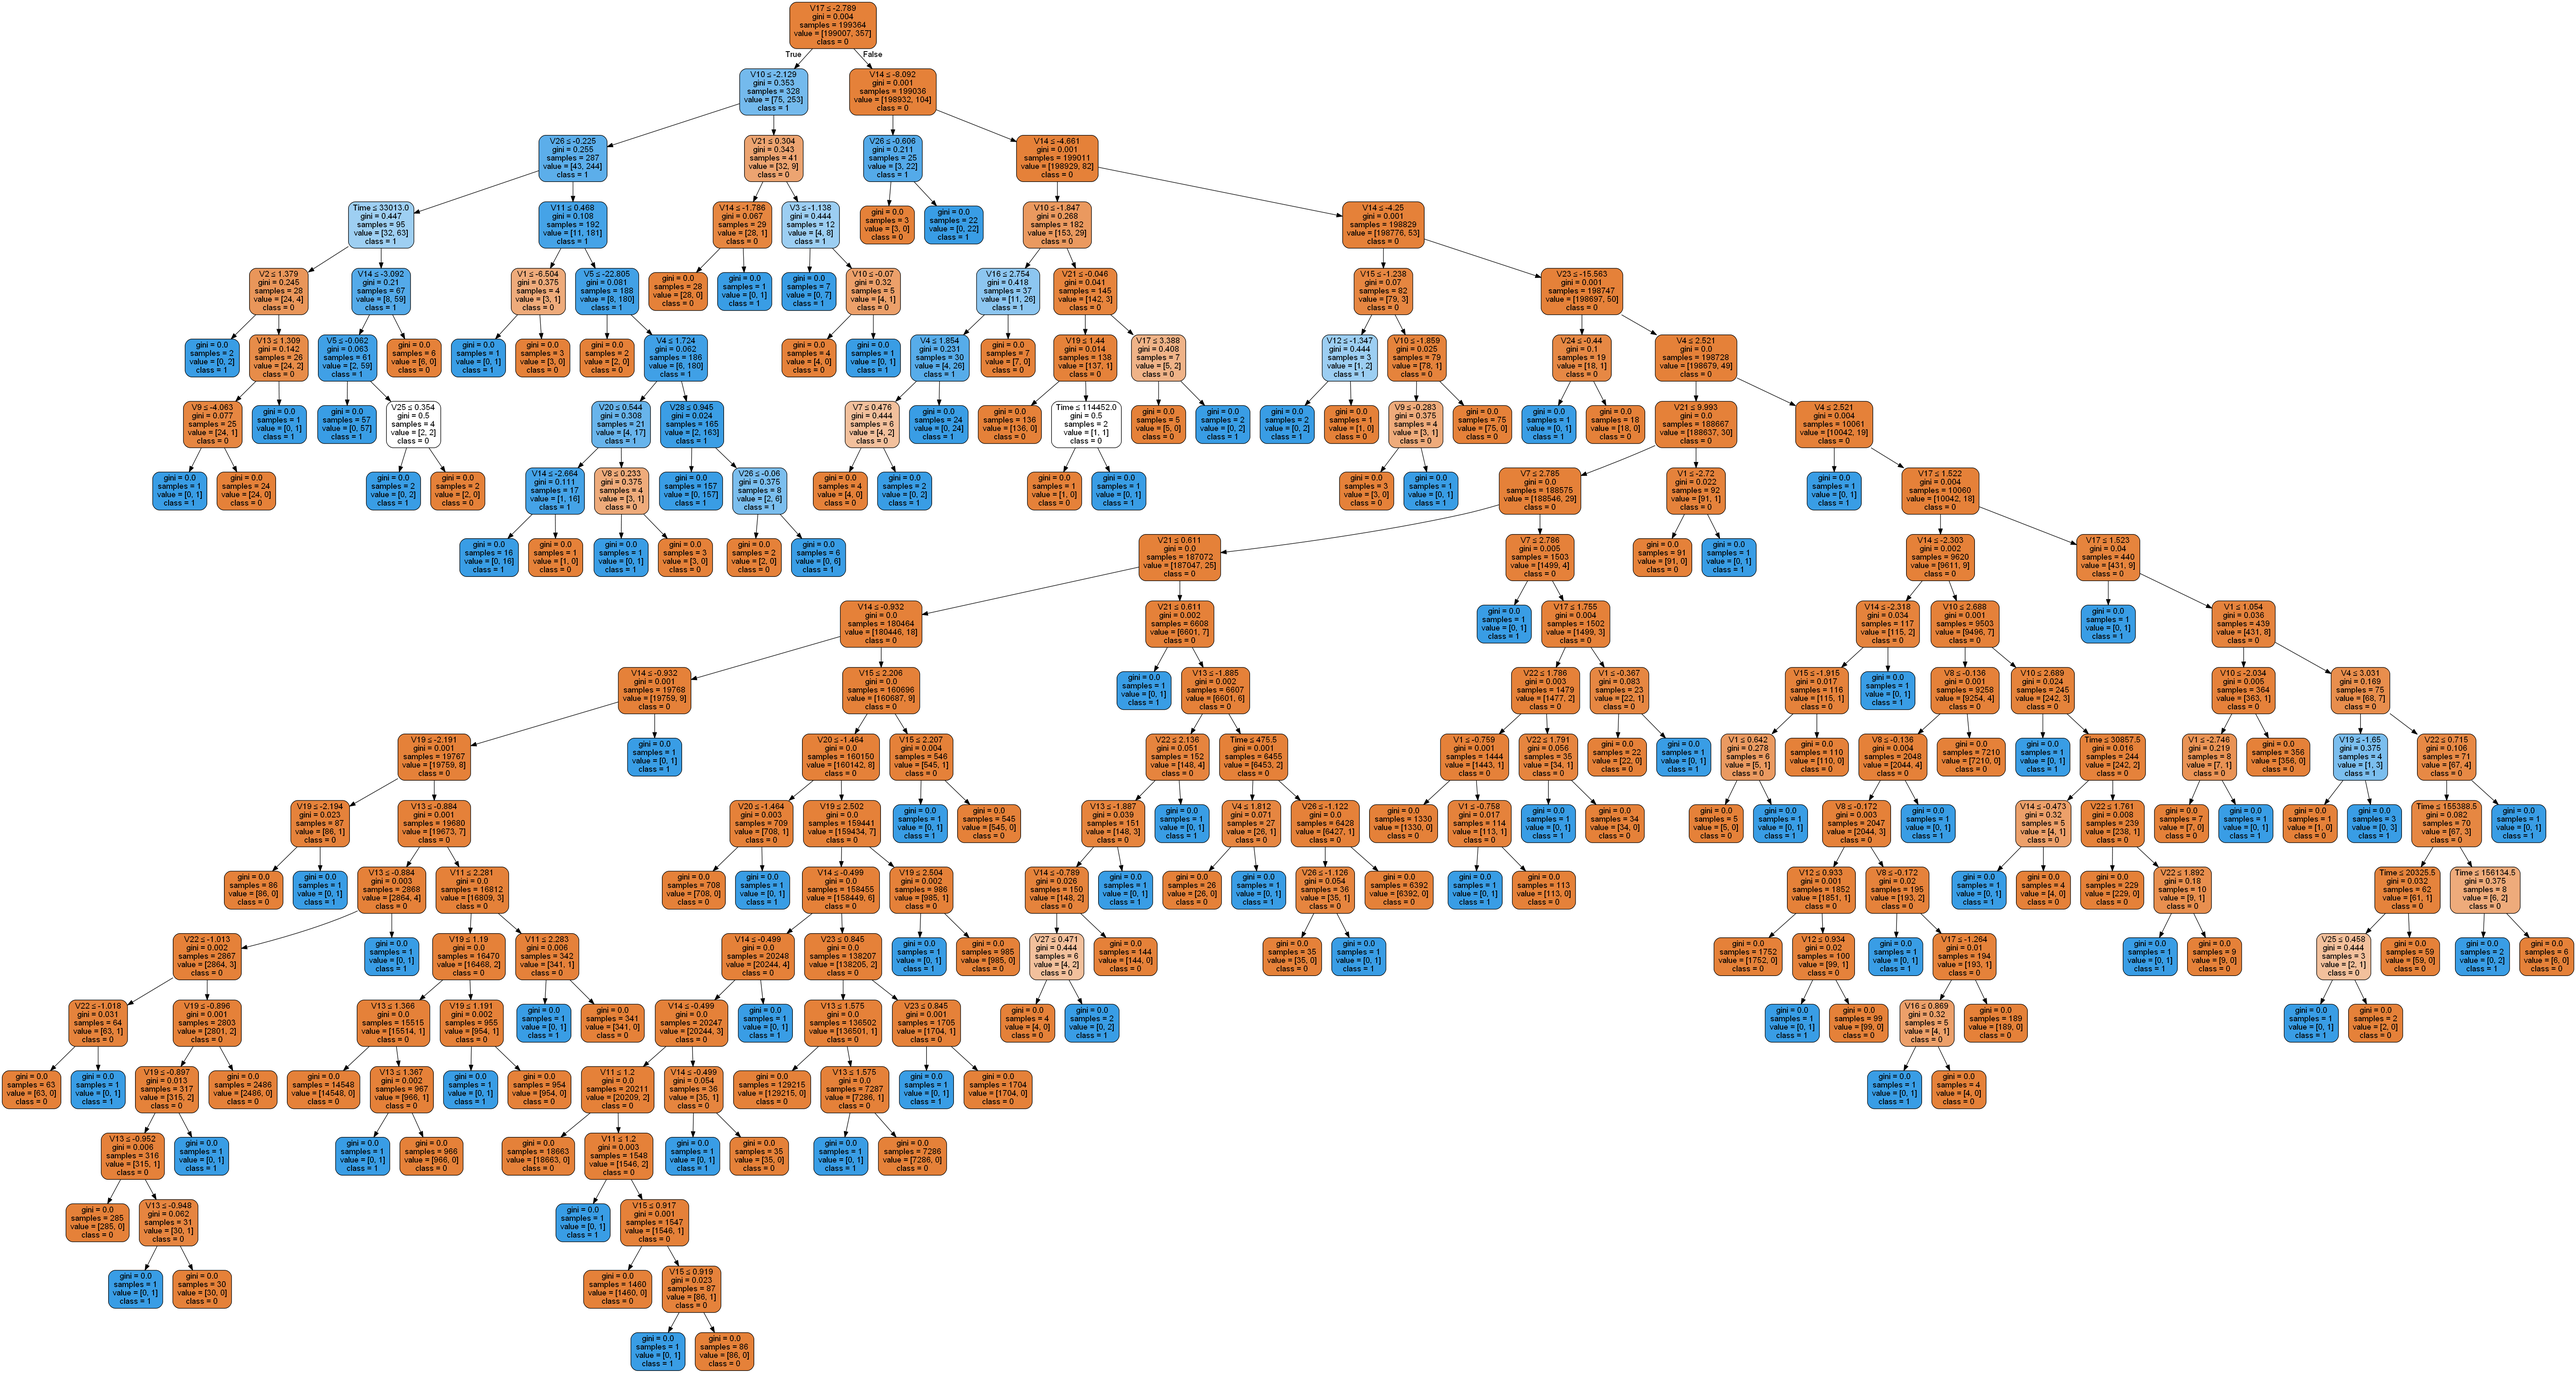
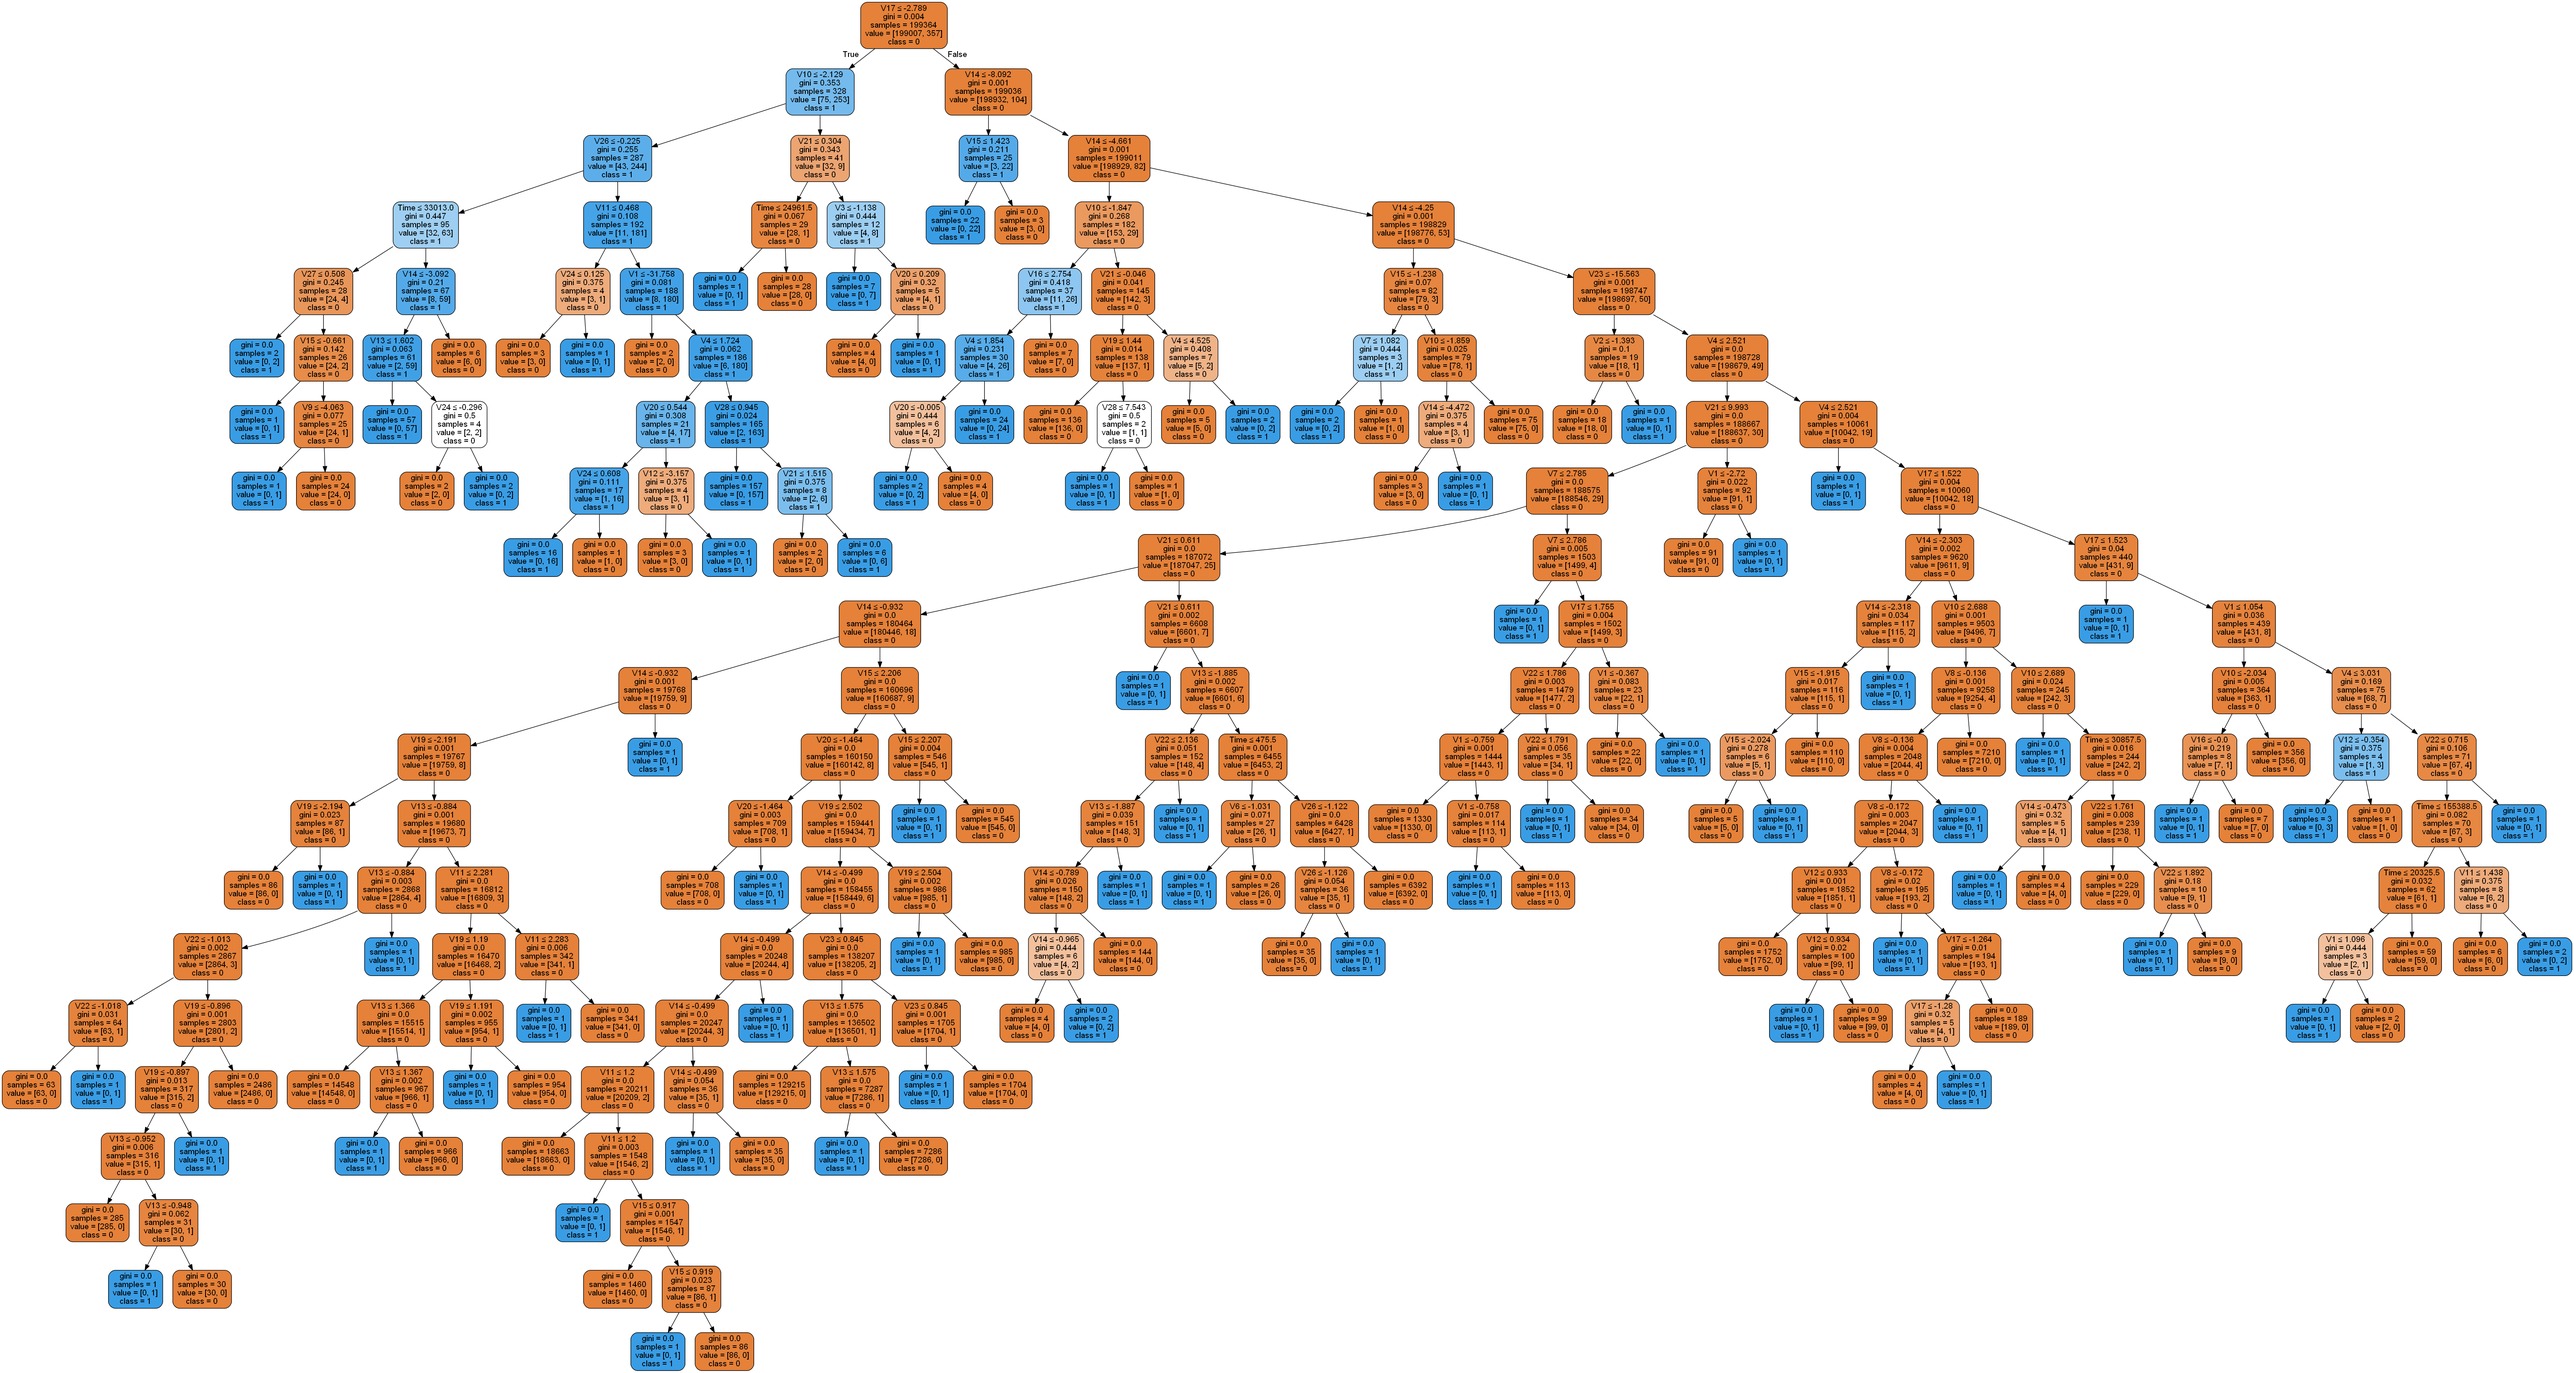
Add files via upload

diff --git a/splitdata.py b/splitdata.py
@@ -36,9 +36,7 @@ from sklearn import metrics
 # Model Accuracy, how often is the classifier correct?
 print("Accuracy:",metrics.accuracy_score(y_test, y_pred))
 valor1 = metrics.accuracy_score(y_test, y_pred)
-#print(clf.predict([[1,0.3,0.2, 0.1, -0.02, -0.3, 0.4, 1.45, 0.8,0.9, 0.78,
- #               2, 3,4, 1, 1,-1,-0.5,-0.4,-0.6, 0.88,
-  #              0.4, 0.6, 0.5, 0.2, 0.3,1, -1, 0.8]]))
+
 
 from sklearn.ensemble import RandomForestClassifier
 
@@ -54,6 +52,7 @@ RandomForestClassifier(bootstrap=True, class_weight=None, criterion='gini',
             min_weight_fraction_leaf=0.0, n_estimators=100, n_jobs=1,
             oob_score=False, random_state=None, verbose=0,
             warm_start=False)
+
 import pandas as pd
 feature_imp = pd.Series(clf.feature_importances_,index= feature_cols).sort_values(ascending=False)
 print(feature_imp)
@@ -68,36 +67,5 @@ plt.xlabel('Feature Importance Score')
 plt.ylabel('Features')
 plt.title("Visualizing Important Features")
 plt.show()
-
-# Import train_test_split function
-
-from sklearn.model_selection import train_test_split
-
-newfeature_cols = ['Time','V1','V2', 'V3', 'V4', 'V5', 'V6','V7','V8','V9', 'V10',
-                'V11', 'V12','V13','V14','V15','V16','V17','V18','V19', 'V20',
-                'V21', 'V22','V26','V27','V28']
-
-X=newfeature_cols  # Removed feature V24 V25 V23
-y=df.Class
-# Split dataset into training set and test set
-X_train, X_test, y_train, y_test = train_test_split(X, y, test_size=0.30, random_state=5)
-# 70% training and 30% test
-
-
-
-#Create a Gaussian Classifier
-clf = RandomForestClassifier(n_estimators=100)
-
-#Train the model using the training sets y_pred=clf.predict(X_test)
-clf.fit(X_train,y_train)
-
-# prediction on test set
-y_pred = clf.predict(X_test)
-
-#Import scikit-learn metrics module for accuracy calculation
-
-# Model Accuracy, how often is the classifier correct?
-print(valor1)
-print("Accuracy:",metrics.accuracy_score(y_test, y_pred))
 
 

diff --git a/cleaneddata.py b/cleaneddata.py
@@ -9,7 +9,7 @@ from sklearn.ensemble import RandomForestRegressor
 random_forest = RandomForestRegressor()
 
 #split dataset in features and target variable
-feature_cols = ['V18','V16','V11','V10', 'V12', 'V14', 'V17']
+feature_cols = ['V10', 'V12', 'V14', 'V17']
 
 X = df[feature_cols]  # Features
 y = df.Class  # Labels
